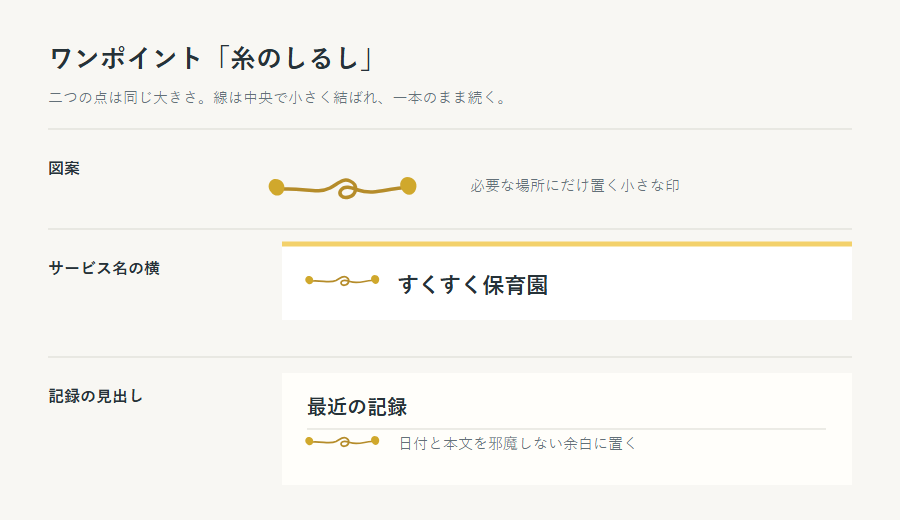
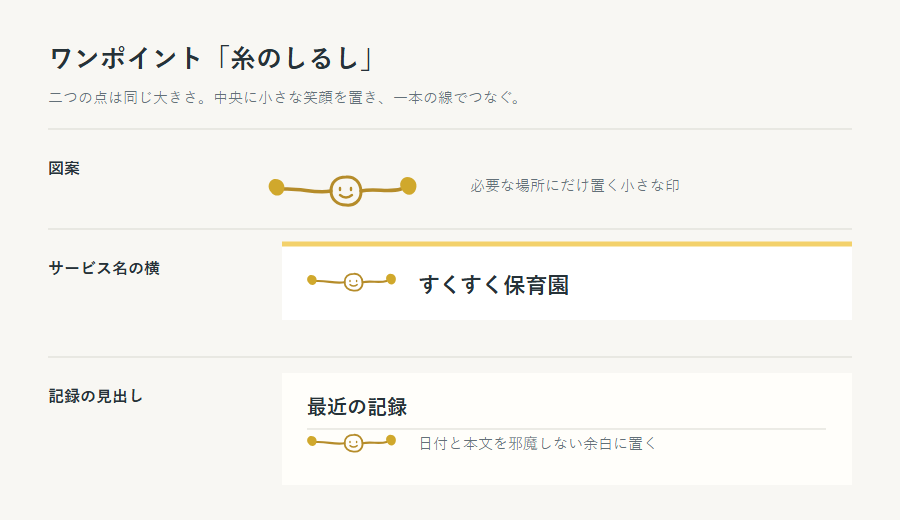
糸のしるしの中央ににっこりマークを加える

diff --git a/図/ワンポイントデザイン案.md b/図/ワンポイントデザイン案.md
@@ -11,7 +11,7 @@
 
 ![二つの点を一本の曲線でつなぐワンポイント「糸のしるし」](デザイン案/糸のしるし.png)
 
-二つの点を同じ重さで描き、保護者と保育士の双方を表す。間の線は中央で小さく結び、一本のまま続ける。人や園児を絵にせず、`README.md` の「点を線でつなぐ」コンセプトだけを小さな印にした。
+二つの点を同じ重さで描き、保護者と保育士の双方を表す。線の中央に**小さなにっこり顔**を加え、左右からつながる形にした。`README.md` の「点を線でつなぐ」コンセプトを保ちながら、画面に温かさを添える印である。顔は園児の状態や感情を表すものではない。
 
 点の形は完全な円から少しずらし、線も左右対称にしない。画面見本の初稿で使った単純な丸と直線より、描き手の選択が見える形を目指す。色は**仮値**で、線を `#B58C2A`、点を `#D0A82C` とした。
 
@@ -29,7 +29,7 @@
 ## 使用上のルール案
 
 - SVG を元データとし、拡大縮小しても線が崩れないようにする。PNG は閲覧用の画像である。
-- 小さすぎると形の差が消えるため、表示幅は**72px以上**を目安にする。最終値は実画面で確認する。
+- 小さすぎると目と口が消えるため、表示幅は**100px以上**を目安にする。最終値は実画面で確認する。
 - 写真、入力欄、警告、午睡チェックの時刻、発達チェックの記録値には重ねない。
 - 情報を伝えるアイコンではなく装飾として使う。実装する場合、読み上げには同じ意味を繰り返さないよう扱う。
 - この図案で発達の程度や園児の状態を表さない。
